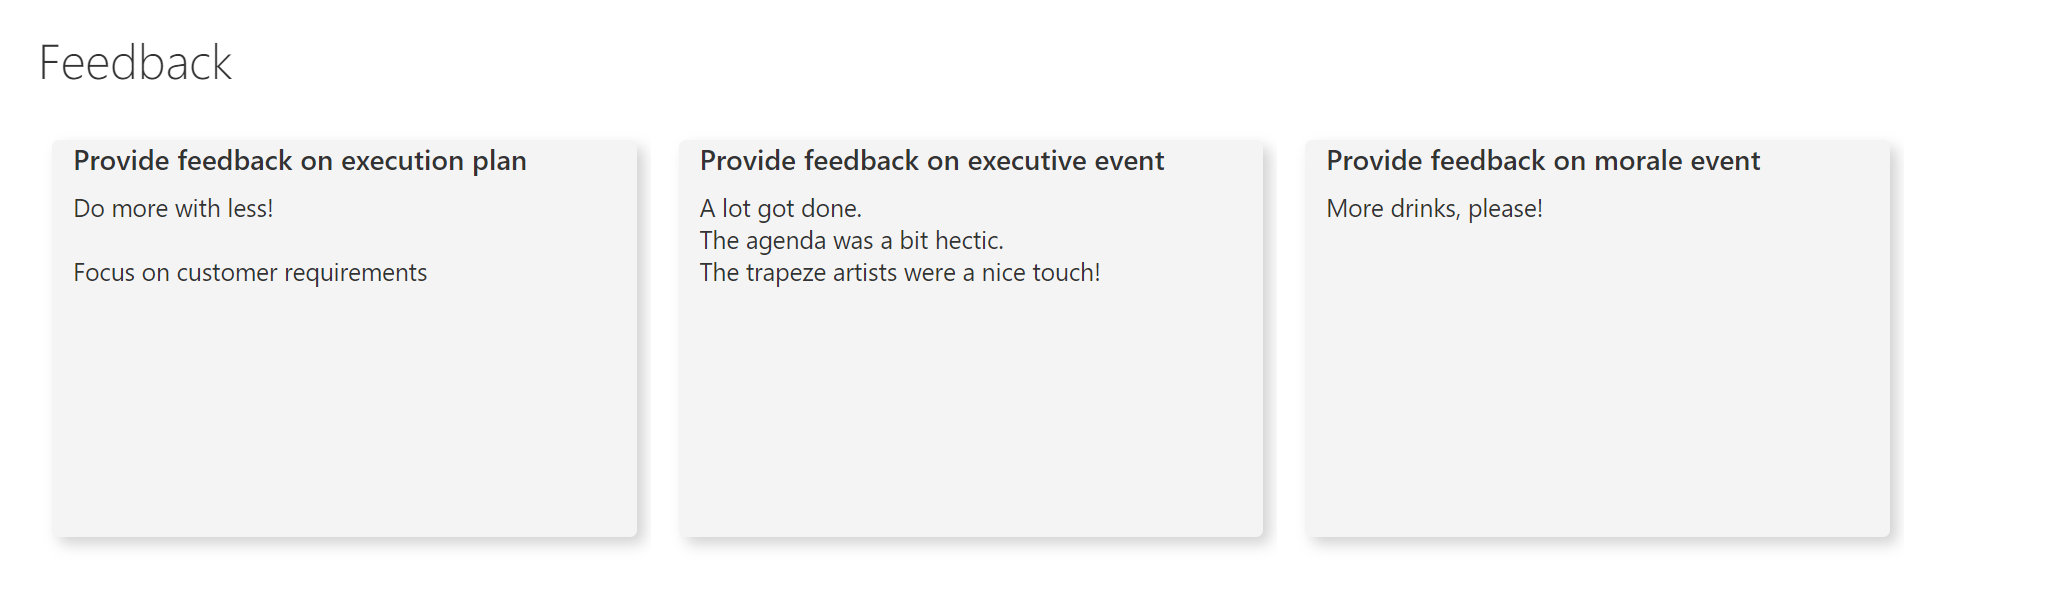
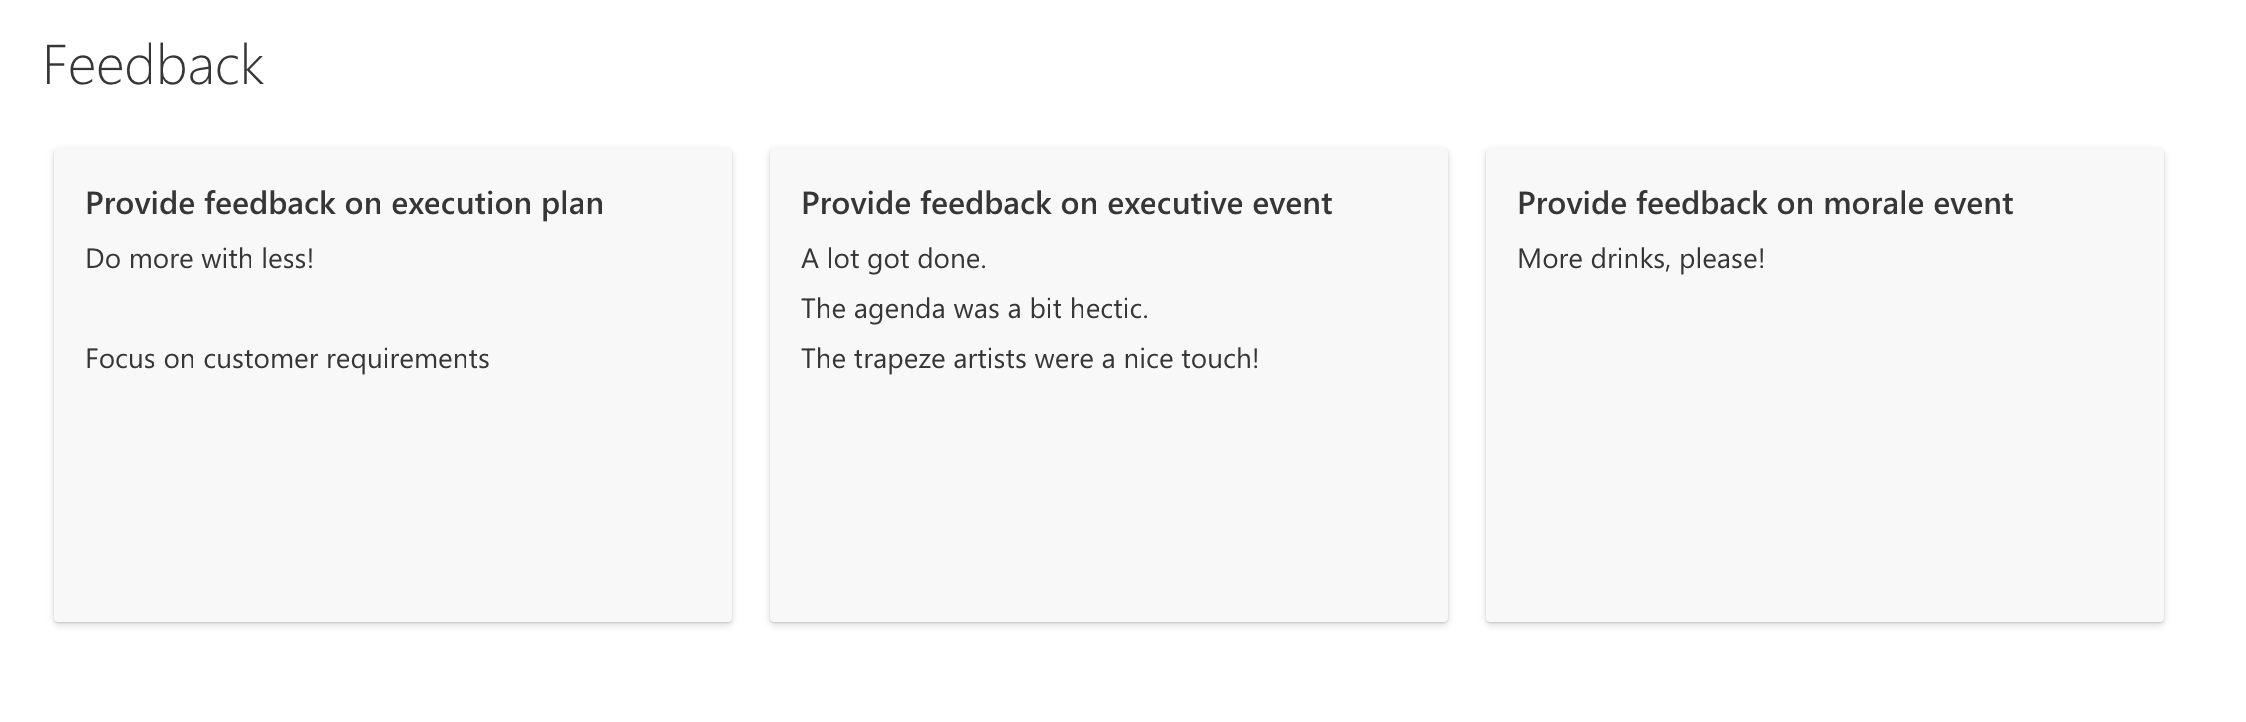
Added documentation around tileProps

diff --git a/docs/declarative-customization/view-formatting.md b/docs/declarative-customization/view-formatting.md
@@ -12,15 +12,18 @@ You can use view formatting to customize how views in SharePoint lists and libra
 > [!TIP]
 > Samples demonstrated in this article and numerous other community samples are available from a GitHub repository dedicated for open-sourced list formatting definitions. You can find these samples in the [sp-dev-list-formatting](https://github.com/SharePoint/sp-dev-list-formatting) repository within the [SharePoint](https://github.com/SharePoint) GitHub organization.
 
+>[!NOTE]
+> View formatting is currently supported only in SharePoint Online. 
+
 ## Get started with view formatting
 
 To open the view formatting pane, open the view dropdown and choose **Format current view**.
 ![view dropdown options](../images/view-dropdown-menu.png)
 
 >[!NOTE]
-> To enbale the 'Tiles' layout, include tileProps property inside the JSON.
+> To enbale the 'Tile' layout, include `tileProps` property inside the JSON.
 
-To format rows in 'List' or 'Compact List' layout, use the `rowFormatter` or `additionalRowClass` properties. To format entries in 'Tiles' layout, use the `formatter` within `tileProps` property.
+To format rows in 'List' or 'Compact List' layout, use the `rowFormatter` or `additionalRowClass` properties. To format entries in 'Tile' layout, use the `formatter` within `tileProps` property.
 
 
 The easiest way to use view formatting is to start from an example and edit it to apply to your specific view. The following sections contain examples that you can copy, paste, and customize for your specific needs. There are also several samples available in the [SharePoint/sp-dev-list-formatting repository](https://github.com/SharePoint/sp-dev-list-formatting).
@@ -138,97 +141,105 @@ This example uses the `rowFormatter` element, which totally overrides the render
 You can find this sample with additional details here: [Multi-line view rendering](https://github.com/SharePoint/sp-dev-list-formatting/tree/master/view-samples/multi-line-view)
 
 
-Similarly, to get the below format in ‘Tiles’ layout for the Feedback list, define the formatter within tileProps:
-![Feedback list formatted in Tiles layout](../images/feedback-tile-layout.png)
+Similarly, to get the below format in ‘Tile’ layout for the Feedback list, define the formatter within `tileProps`:
+![Feedback list formatted in Tile layout](../images/feedback-tile-layout.png)
 
 ```JSON
 {
-    "schema": "https://developer.microsoft.com/json-schemas/sp/view-formatting.schema.json",
-    "tileProps": {
-        "height": "250",
-        "width": "350",
-        "hideSelection": true,
-        "formatter": {
-        "elmType": "div",
-        "style": {
-            "display": "flex",
-            "align-items": "stretch",
-            "margin-bottom": "16px",
-            "min-width": "150px",
-            "flex-grow": "1",
-            "justify-content": "space-around",
-            "padding": "8px"
-        },
-        "children": [
+  "schema": "https://developer.microsoft.com/json-schemas/sp/view-formatting.schema.json",
+  "tileProps": {
+    "height": "250",
+    "width": "350",
+    "hideSelection": true,
+    "formatter": {
+      "elmType": "div",
+      "style": {
+        "display": "flex",
+        "align-items": "stretch",
+        "margin-bottom": "16px",
+        "min-width": "150px",
+        "flex-grow": "1",
+        "justify-content": "space-around",
+        "padding": "5px"
+      },
+      "children": [
+        {
+          "elmType": "div",
+          "style": {
+            "width": "95%",
+            "height": "92%",
+            "box-shadow": "0px 1.6px 3.6px 0 #00000024, 0px 0.3px 0.9px 0 #00000024",
+            "overflow": "hidden",
+            "border-radius": "2px",
+            "padding-left": "16px",
+            "padding-top": "16px"
+          },
+          "attributes": {
+            "class": "ms-bgColor-neutralLighterAlt"
+          },
+          "children": [
             {
-            "elmType": "div",
-            "style": {
-                "width": "97%",
-                "height": "97%",
-                "box-shadow": "4px 4px 8px #a9a9a985",
-                "overflow": "hidden",
-                "border-radius": "4px",
-                "padding-left": "12px"
-            },
-            "attributes": {
-                "class": "ms-bgColor-neutralLighter"
-            },
-            "children": [
+              "elmType": "div",
+              "style": {
+                "text-align": "left"
+              },
+              "children": [
                 {
-                "elmType": "div",
-                "style": {
-                    "text-align": "left"
+                  "elmType": "div",
+                  "style": {
+                    "color":"#333333",
+                    "font-size": "16px",
+                    "font-weight":"600",
+                    "margin-bottom":"5px"
                 },
-                "children": [
-                    {
-                    "elmType": "div",
-                    "attributes": {
-                        "class": "sp-row-title"
-                    },
-                    "txtContent": "[$Title]"
-                    },
-                    {
-                    "elmType": "div",
-                    "attributes": {
-                        "class": "sp-row-listPadding"
-                    },
-                    "txtContent": "[$Feedback]"
-                    },
-                    {
-                    "elmType": "button",
-                    "customRowAction": {
-                        "action": "defaultClick"
-                    },
-                    "txtContent": "Give feedback",
-                    "attributes": {
-                        "class": "sp-row-button"
-                    },
-                    "style": {
-                        "display": {
-                        "operator": "?",
-                        "operands": [
-                            {
-                            "operator": "==",
-                            "operands": [
-                                "@me",
-                                "[$Assigned_x0020_To.email]"
-                            ]
-                            },
-                            "",
-                            "none"
-                        ]
-                        }
+                  "txtContent": "[$Title]"
+                },
+                {
+                  "elmType": "div",
+                  "style": {
+                    "color":"#333333",
+                    "font-size": "14px",
+                    "line-height":"1.8"
+                },
+                  "attributes": {
+                    "class": "sp-row-listPadding"
+                  },
+                  "txtContent": "[$Feedback]"
+                },
+                {
+                  "elmType": "button",
+                  "customRowAction": {
+                    "action": "defaultClick"
+                  },
+                  "txtContent": "Give feedback",
+                  "attributes": {
+                    "class": "sp-row-button"
+                  },
+                  "style": {
+                    "display": {
+                      "operator": "?",
+                      "operands": [
+                        {
+                          "operator": "==",
+                          "operands": [
+                            "@me",
+                            "[$Assigned_x0020_To.email]"
+                          ]
+                        },
+                        "",
+                        "none"
+                      ]
                     }
-                    }
-                ]
+                  }
                 }
-            ]
+              ]
             }
-        ]
+          ]
         }
+      ]
     }
+  }
 }
-
 
 
 ### Alternate Row Formatting based on Modulus 
@@ -288,7 +299,7 @@ Optional element. Specifies a CSS class(es) that is applied to the entire row. S
 
 Optional element. Specifies whether the ability to select rows in the view is disabled or not. *false* is the default behavior inside a list view (meaning selection is visible and enabled). *true* means that users will not be able to select list items.  
 
-For list & compact list layout, `hideSelection` only takes effect when there's a `rowFormatter` element specified. If no `rowFormatter` is specified, then `hideSelection` is ignored. For tile layout, `hideSelection` will only take effect if defined inside `tileProps` properties.
+For list & compact list layout, `hideSelection` only takes effect when there's a `rowFormatter` element specified. If no `rowFormatter` is specified, then `hideSelection` is ignored. For 'Tile' layout, `hideSelection` will only take effect if defined inside `tileProps` properties.
 
 ### hideColumnHeader
 
@@ -296,7 +307,7 @@ Optional element. Specifies whether the column headers in the view are hidden or
 
 ### tileProps
 
-Optional element. Specifies a JSON object that describes a tile view format. Elements of this property include:
+Optional element. Specifies a JSON object that describes a 'Tile' view format. Elements of this property include:
 - height – defines the height of the card in pixels.
 - width – defines the width of the card in pixels. Can go from height/2 to 3 x height. 
 - hideSelection – as defined above
